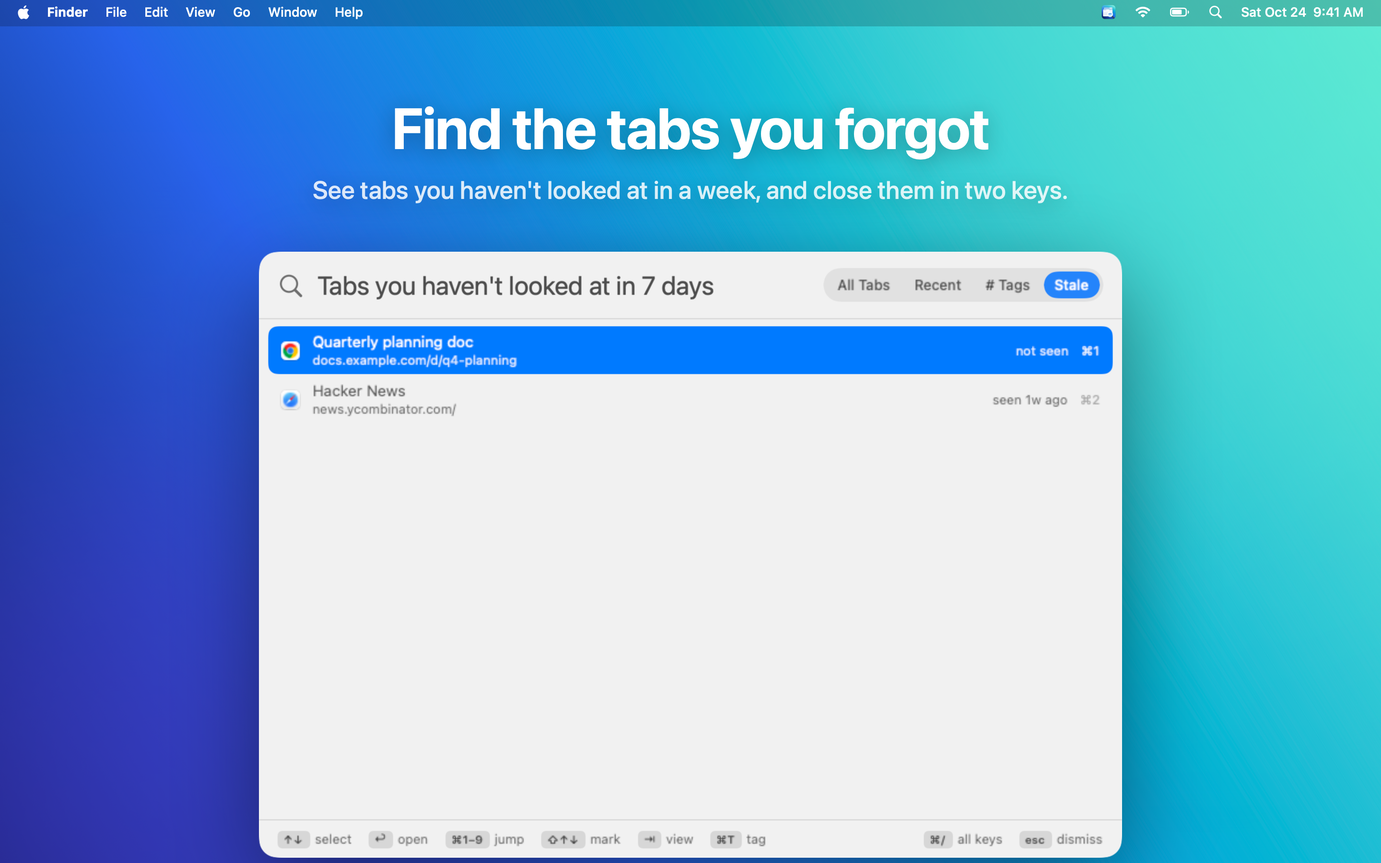
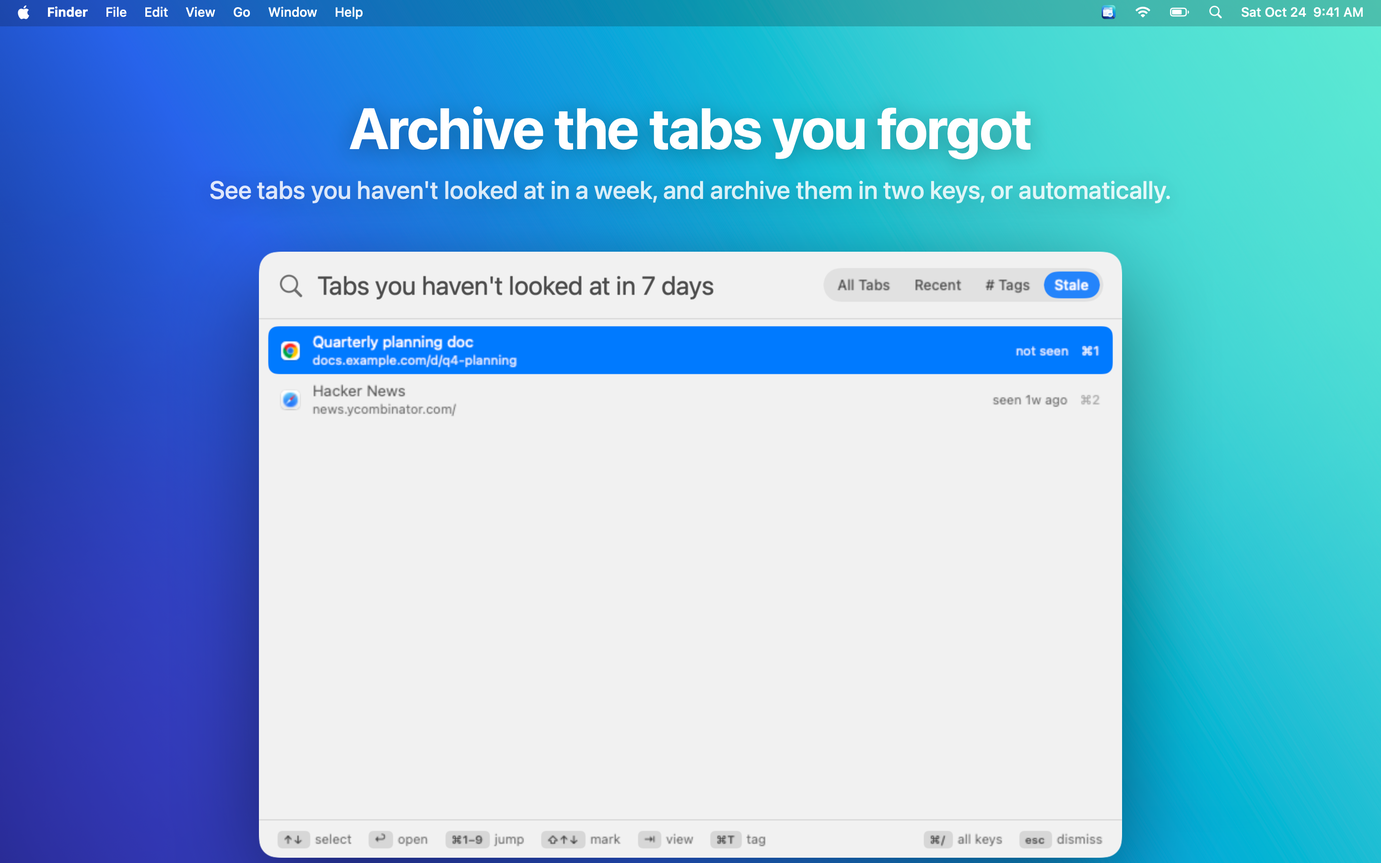
1.2: tab archive and saved sessions docs, privacy, listing, screenshots

Changed region(s): [[0.1562, 0.1244, 0.8438, 0.2489]]

diff --git a/index.html b/index.html
@@ -24,7 +24,7 @@
   <div class="wrap hero">
     <img class="icon" src="images/icon-512.png" alt="BrowserSearch app icon">
     <h1>Every tab, every browser,<br><span class="grad-text">one keystroke away</span>.</h1>
-    <p class="lead">Press <kbd>⌥Space</kbd>, type a few letters, hit <kbd>↩</kbd>. BrowserSearch jumps straight to the tab in Chrome, Safari or Firefox, whichever window it's hiding in.</p>
+    <p class="lead">Press <kbd>⌥Space</kbd>, type a few letters, hit <kbd>↩</kbd>. BrowserSearch jumps straight to the tab in Chrome, Safari or Firefox, whichever window it's hiding in. Close tabs without losing them: the archive keeps every page searchable, down to the words inside it.</p>
     <div class="actions">
       <a class="btn primary" href="docs.html#start">Get started</a>
       <a class="btn" href="#keyboard">Keyboard shortcuts</a>
@@ -32,13 +32,17 @@
     <p class="meta">macOS 14 Sonoma or later · Chrome, Safari, Firefox, Brave, Edge, Vivaldi · Nothing leaves your Mac</p>
 
     <div class="viewer">
-      <input type="radio" name="view" id="v-all" checked>
+      <input type="radio" name="view" id="v-archive" checked>
+      <input type="radio" name="view" id="v-saved">
+      <input type="radio" name="view" id="v-all">
       <input type="radio" name="view" id="v-search">
       <input type="radio" name="view" id="v-recent">
       <input type="radio" name="view" id="v-tags">
       <input type="radio" name="view" id="v-marked">
       <input type="radio" name="view" id="v-stale">
       <div class="switch" role="tablist" aria-label="Screenshots">
+        <label for="v-archive">Archive</label>
+        <label for="v-saved">Sessions</label>
         <label for="v-all">All tabs</label>
         <label for="v-search">Searching</label>
         <label for="v-recent">Recent</label>
@@ -47,6 +51,8 @@
         <label for="v-stale">Stale</label>
       </div>
       <div class="frames">
+        <img class="f-archive" src="images/panel-archive.png" alt="Searching 'renewal notice' finds an open tab and an archived page by a sentence inside it">
+        <img class="f-saved" src="images/panel-saved.png" alt="The Saved view: two saved sessions and five archived pages">
         <img class="f-all" src="images/panel-all.png" alt="The BrowserSearch panel listing tabs grouped under Chrome and Safari, and by window">
         <img class="f-search" src="images/panel-search.png" alt="Typing 'store' narrows the list to the two matching Chrome tabs">
         <img class="f-tags" src="images/panel-tags.png" alt="The Tags view: #work, #review and #reading groups, including a closed page that can be reopened">
@@ -78,17 +84,20 @@
         <p class="section-lead">Everything is reachable from the keyboard, and nothing gets in your way.</p>
       </div>
       <div class="grid">
+        <div class="card"><span class="emoji">🗄</span><h3>Tab archive <span class="tag new">new</span></h3><p><kbd>⌘E</kbd> closes a tab and keeps it, page text included. Search finds it later by title, address, tag or any words on the page; <kbd>↩</kbd> reopens it.</p></div>
+        <div class="card"><span class="emoji">🪟</span><h3>Saved sessions <span class="tag new">new</span></h3><p><kbd>⌘S</kbd> saves every window across your browsers as a named session. Pick it in <em>Saved</em> and <kbd>↩</kbd> restores the windows, tabs in order.</p></div>
+        <div class="card"><span class="emoji">🧹</span><h3>Auto-archive <span class="tag new">new</span></h3><p>Optionally archive tabs you haven't looked at in a week, automatically. Pinned, keyworded and showing tabs are never touched.</p></div>
         <div class="card"><span class="emoji">🌳</span><h3>Organized like your Mac</h3><p>Tabs grouped by browser, then by window, with the tab each window is showing marked.</p></div>
         <div class="card"><span class="emoji">🔎</span><h3>Fuzzy search</h3><p>Titles and addresses. <code>store</code>, <code>gh pull</code>, or just initials: <code>pr</code> finds “Pull requests”.</p></div>
-        <div class="card"><span class="emoji">#⃣</span><h3>Saved tab groups <span class="tag new">new</span></h3><p>Tag tabs <code>#work</code> with <kbd>⌘T</kbd>. <kbd>⌘↩</kbd> reopens the whole group later, even tabs you closed.</p></div>
-        <div class="card"><span class="emoji">☑</span><h3>Bulk actions <span class="tag new">new</span></h3><p>Mark tabs with <kbd>⇧↑↓</kbd> or <kbd>⌘</kbd>-click, then close, tag, pin or copy them all as Markdown links.</p></div>
-        <div class="card"><span class="emoji">👯</span><h3>Duplicate finder <span class="tag new">new</span></h3><p>Tabs open twice get a <strong>2×</strong> badge. <kbd>⌘D</kbd> closes the extra copies.</p></div>
-        <div class="card"><span class="emoji">💤</span><h3>Stale tabs <span class="tag new">new</span></h3><p>See what you haven't looked at in a week, oldest first. <kbd>⌘A</kbd> <kbd>⌘W</kbd> and they're gone.</p></div>
-        <div class="card"><span class="emoji">📌</span><h3>Pins &amp; keywords <span class="tag new">new</span></h3><p><kbd>⌘P</kbd> pins a tab to the top. <kbd>⌘K</kbd> gives it a keyword: type <code>jira</code> ↩ and you're there.</p></div>
-        <div class="card"><span class="emoji">↔</span><h3>Move &amp; switch browsers <span class="tag new">new</span></h3><p><kbd>⌘M</kbd> pulls a tab into your front window. <kbd>⌘O</kbd> moves it to another browser.</p></div>
-        <div class="card"><span class="emoji">⏮</span><h3>Previous-tab shortcut <span class="tag new">new</span></h3><p><kbd>⌃⌥⇥</kbd> jumps straight back to the tab you used before, no panel. Again to return.</p></div>
-        <div class="card"><span class="emoji">📄</span><h3>Search inside pages <span class="tag new">new</span></h3><p><kbd>⌘F</kbd> in the panel also matches the text on each page, with a snippet of where it was found.</p></div>
-        <div class="card"><span class="emoji">🗣</span><h3>Shortcuts &amp; Siri <span class="tag new">new</span></h3><p>“Find Tab”, “Open Tab Group” and “Go to Previous Tab” actions for the Shortcuts app.</p></div>
+        <div class="card"><span class="emoji">#⃣</span><h3>Saved tab groups</h3><p>Tag tabs <code>#work</code> with <kbd>⌘T</kbd>. <kbd>⌘↩</kbd> reopens the whole group later, even tabs you closed.</p></div>
+        <div class="card"><span class="emoji">☑</span><h3>Bulk actions</h3><p>Mark tabs with <kbd>⇧↑↓</kbd> or <kbd>⌘</kbd>-click, then close, tag, pin or copy them all as Markdown links.</p></div>
+        <div class="card"><span class="emoji">👯</span><h3>Duplicate finder</h3><p>Tabs open twice get a <strong>2×</strong> badge. <kbd>⌘D</kbd> closes the extra copies.</p></div>
+        <div class="card"><span class="emoji">💤</span><h3>Stale tabs</h3><p>See what you haven't looked at in a week, oldest first. <kbd>⌘A</kbd> <kbd>⌘E</kbd> and they're archived.</p></div>
+        <div class="card"><span class="emoji">📌</span><h3>Pins &amp; keywords</h3><p><kbd>⌘P</kbd> pins a tab to the top. <kbd>⌘K</kbd> gives it a keyword: type <code>jira</code> ↩ and you're there.</p></div>
+        <div class="card"><span class="emoji">↔</span><h3>Move &amp; switch browsers</h3><p><kbd>⌘M</kbd> pulls a tab into your front window. <kbd>⌘O</kbd> moves it to another browser.</p></div>
+        <div class="card"><span class="emoji">⏮</span><h3>Previous-tab shortcut</h3><p><kbd>⌃⌥⇥</kbd> jumps straight back to the tab you used before, no panel. Again to return.</p></div>
+        <div class="card"><span class="emoji">📄</span><h3>Search inside pages</h3><p><kbd>⌘F</kbd> in the panel also matches the text on each page, with a snippet of where it was found.</p></div>
+        <div class="card"><span class="emoji">🗣</span><h3>Shortcuts &amp; Siri</h3><p>“Find Tab”, “Open Tab Group” and “Go to Previous Tab” actions for the Shortcuts app.</p></div>
         <div class="card"><span class="emoji">🌐</span><h3>Automatic site groups</h3><p>Tabs from the same site group themselves in the Tags view: every GitHub tab under <code>github</code>, no setup.</p></div>
         <div class="card"><span class="emoji">🕘</span><h3>Recent tabs</h3><p>A live, most-recently-used list across all browsers. Press <kbd>⇥</kbd> to switch to it.</p></div>
         <div class="card"><span class="emoji">↩</span><h3>Jump back</h3><p>Open on Recent and the previous tab is preselected: shortcut, <kbd>↩</kbd>, and you're back. Like <kbd>⌘⇥</kbd> for tabs.</p></div>
@@ -97,7 +106,7 @@
         <div class="card"><span class="emoji">🛡</span><h3>Shortcut conflict check</h3><p>Warns when your shortcut clashes with macOS, another app's hotkey, or a launcher like Raycast, Alfred or ChatGPT.</p></div>
         <div class="card"><span class="emoji">♻</span><h3>Reopen closed tabs</h3><p>Tabs you closed stay in Recent; pick one to open it again in the same browser.</p></div>
         <div class="card"><span class="emoji">🚫</span><h3>Never launches browsers</h3><p>Only open browsers are searched. If only Chrome is running, only Chrome is searched.</p></div>
-        <div class="card"><span class="emoji">🔒</span><h3>Private by design</h3><p>No network access, no analytics. Recent tabs, tags, pins and keywords stay on your Mac and can be cleared.</p></div>
+        <div class="card"><span class="emoji">🔒</span><h3>Private by design</h3><p>No network access, no analytics. Recent tabs, tags, pins, the archive and sessions stay on your Mac and can be cleared.</p></div>
       </div>
     </div>
   </section>
@@ -146,7 +155,7 @@
         <div class="key"><kbd>↩</kbd><span>Switch to the tab</span></div>
         <div class="key"><kbd>⌘1–9</kbd><span>Open result 1–9</span></div>
         <div class="key"><kbd>⌘↑ ⌘↓</kbd><span>Previous / next group</span></div>
-        <div class="key"><kbd>⇥</kbd><span>All · Recent · Tags · Stale</span></div>
+        <div class="key"><kbd>⇥</kbd><span>All · Recent · Tags · Stale · Saved</span></div>
         <div class="key"><kbd>⇧↑ ⇧↓</kbd><span>Mark tabs</span></div>
         <div class="key"><kbd>⌘A</kbd><span>Mark all / none</span></div>
         <div class="key"><kbd>⌘↩</kbd><span>Open marked tabs or a whole #tag group</span></div>
@@ -154,6 +163,8 @@
         <div class="key"><kbd>⌘K</kbd><span>Keyword</span></div>
         <div class="key"><kbd>⌘P</kbd><span>Pin to the top</span></div>
         <div class="key"><kbd>⌘W</kbd><span>Close tab(s)</span></div>
+        <div class="key"><kbd>⌘E</kbd><span>Archive tab(s)</span></div>
+        <div class="key"><kbd>⌘S</kbd><span>Save a session</span></div>
         <div class="key"><kbd>⌘D</kbd><span>Close duplicates</span></div>
         <div class="key"><kbd>⌘M</kbd><span>Move to the front window</span></div>
         <div class="key"><kbd>⌘O</kbd><span>Open in another browser</span></div>

diff --git a/docs.html b/docs.html
@@ -29,6 +29,8 @@
     <a href="#tags">Hashtags &amp; saved groups</a>
     <a href="#bulk">Bulk actions</a>
     <a href="#pins">Pins &amp; keywords</a>
+    <a href="#archive">Tab archive</a>
+    <a href="#sessions">Saved sessions</a>
     <a href="#tidy">Duplicates &amp; stale tabs</a>
     <a href="#move">Moving tabs</a>
     <a href="#pagetext">Searching page text</a>
@@ -115,11 +117,30 @@
       <li><strong>Keyword</strong> with <kbd>⌘K</kbd>: give a tab a short word such as <code>jira</code>. Typing exactly that word shows it first under <em>Keyword</em>, so shortcut, <code>jira</code>, <kbd>↩</kbd> always lands there, and reopens it if the tab was closed. A keyword belongs to one page; giving it to another page moves it. Clear the box to remove it.</li>
     </ul>
 
+    <h2 id="archive">Tab archive</h2>
+    <img src="images/panel-archive.png" alt="Searching finds an archived page by a sentence inside it">
+    <ul>
+      <li><kbd>⌘E</kbd> archives the selected or marked tabs: BrowserSearch keeps the title, address, hashtags and the visible text of the page, then closes the tab. Firefox tabs are archived but stay open, since Firefox can't be asked to close them.</li>
+      <li>Archived pages show up under <em>Archive</em> whenever you search in All Tabs, matched by title, address, <code>#tag</code> or any words in the page text, with a snippet of where the words were found. <kbd>↩</kbd> reopens the page in the browser it came from and takes it out of the archive.</li>
+      <li>The <em>Saved</em> view (<kbd>⇥</kbd>) lists everything archived, newest first. <kbd>⌘W</kbd> deletes entries.</li>
+      <li>Page text needs <strong>Allow JavaScript from Apple Events</strong> in Chrome, Brave, Edge or Vivaldi (View › Developer) or Safari (Develop menu); without it the page is archived without its text. Turn off <strong>Keep page text</strong> in Settings › Archive to never store it.</li>
+      <li><strong>Archive stale tabs automatically</strong> (Settings › Archive, off by default): every half hour, tabs that would be listed in the Stale view are archived and closed. Tabs that are showing in their window, pinned, or given a keyword are never touched.</li>
+      <li>The archive keeps the latest 2,000 pages and up to 20,000 characters of text from each.</li>
+    </ul>
+
+    <h2 id="sessions">Saved sessions</h2>
+    <img src="images/panel-saved.png" alt="The Saved view: sessions and archived pages">
+    <ul>
+      <li><kbd>⌘S</kbd> saves the marked tabs, or every tab when none are marked, as a named session. Each browser window is kept separately, tabs in order.</li>
+      <li>In the <em>Saved</em> view, pick a session and press <kbd>↩</kbd>: each window is opened again in its browser, with all its tabs. The session stays saved, so you can restore it again later; <kbd>⌘W</kbd> deletes it.</li>
+      <li>Firefox tabs can't be read with their addresses, so sessions don't include them.</li>
+    </ul>
+
     <h2 id="tidy">Duplicates &amp; stale tabs</h2>
     <img src="images/panel-stale.png" alt="The Stale view listing tabs not looked at for a week">
     <ul>
       <li><strong>Duplicates:</strong> a page open more than once (in any browser, ignoring <code>https</code>, <code>www.</code> and <code>#section</code> differences) gets a <strong>2×</strong> badge. <kbd>⌘D</kbd> closes the extra copies among the tabs listed, keeping the one showing in its window. Search first to limit it, for example to one site.</li>
-      <li><strong>Stale view</strong> (<kbd>⇥</kbd> to <em>Stale</em>): open tabs you haven't looked at for 7 days, oldest first, with when you last saw each. Mark them all with <kbd>⌘A</kbd> and close with <kbd>⌘W</kbd>. Change the number of days in Settings › Organize.</li>
+      <li><strong>Stale view</strong> (<kbd>⇥</kbd> to <em>Stale</em>): open tabs you haven't looked at for 7 days, oldest first, with when you last saw each. Mark them all with <kbd>⌘A</kbd>, then archive with <kbd>⌘E</kbd> or close with <kbd>⌘W</kbd>. Change the number of days in Settings › Organize.</li>
       <li>“Looked at” means the tab was in front in its browser while BrowserSearch was running. Tabs never seen only count as stale once BrowserSearch has been running for that many days, so nothing shows up right after installing.</li>
     </ul>
 
@@ -155,14 +176,16 @@
       <tr><td><kbd>⌘↑</kbd> / <kbd>⌘↓</kbd></td><td>Jump to the previous / next group (browser, section or tag)</td></tr>
       <tr><td><kbd>↩</kbd></td><td>Switch to the selected tab</td></tr>
       <tr><td><kbd>⌘1</kbd>–<kbd>⌘9</kbd></td><td>Switch to result 1–9</td></tr>
-      <tr><td><kbd>⇥</kbd></td><td>Cycle All Tabs, Recent, # Tags and Stale</td></tr>
+      <tr><td><kbd>⇥</kbd></td><td>Cycle All Tabs, Recent, # Tags, Stale and Saved</td></tr>
       <tr><td><kbd>⇧↑</kbd> / <kbd>⇧↓</kbd>, <kbd>⌘</kbd>-click</td><td>Mark tabs for a bulk action</td></tr>
       <tr><td><kbd>⌘A</kbd></td><td>Mark every tab listed / clear marks</td></tr>
       <tr><td><kbd>⌘↩</kbd></td><td>Open the marked tabs, or in # Tags the whole group (reopening closed pages)</td></tr>
       <tr><td><kbd>⌘T</kbd></td><td>Hashtags for the selected or marked tabs</td></tr>
       <tr><td><kbd>⌘K</kbd></td><td>Keyword for the selected tab</td></tr>
       <tr><td><kbd>⌘P</kbd></td><td>Pin / unpin</td></tr>
-      <tr><td><kbd>⌘W</kbd></td><td>Close the selected or marked tabs (not Firefox)</td></tr>
+      <tr><td><kbd>⌘W</kbd></td><td>Close the selected or marked tabs (not Firefox); in Saved, delete them</td></tr>
+      <tr><td><kbd>⌘E</kbd></td><td>Archive the selected or marked tabs (and close them)</td></tr>
+      <tr><td><kbd>⌘S</kbd></td><td>Save the marked tabs, or all tabs, as a session</td></tr>
       <tr><td><kbd>⌘D</kbd></td><td>Close duplicate tabs among those listed</td></tr>
       <tr><td><kbd>⌘M</kbd></td><td>Move to the browser's front window</td></tr>
       <tr><td><kbd>⌘O</kbd></td><td>Open in another browser (then a number to pick it)</td></tr>
@@ -212,6 +235,12 @@
       <li><strong>Hashtags › Clear All Tags.</strong> Removes every tag you've added.</li>
       <li><strong>Keywords &amp; Pins › Clear Keywords &amp; Pins.</strong></li>
       <li><strong>Stale after N days.</strong> How long a tab can go without a look before the Stale view lists it (1–60, default 7).</li>
+    </ul>
+    <h3>Archive</h3>
+    <ul>
+      <li><strong>Keep page text.</strong> On by default. Off stores only titles, addresses and tags.</li>
+      <li><strong>Archive stale tabs automatically.</strong> Off by default. See <a href="#archive">Tab archive</a>.</li>
+      <li><strong>Clear Archive</strong> and <strong>Clear Sessions</strong> delete them.</li>
     </ul>
     <h3>Browsers</h3>
     <ul>

diff --git a/privacy.html b/privacy.html
@@ -23,7 +23,7 @@
 <main class="wrap">
   <section>
     <h2>Privacy Policy</h2>
-    <p class="section-lead">Effective October 24, 2026. Short version: BrowserSearch doesn't collect, sell or share any data about you.</p>
+    <p class="section-lead">Effective October 28, 2026. Short version: BrowserSearch doesn't collect, sell or share any data about you.</p>
 
     <h3>What BrowserSearch reads</h3>
     <p>When you open the search panel, BrowserSearch reads the titles and URLs of tabs in browsers that are already open, so it can search them. That list is kept in memory only and replaced on the next search.</p>
@@ -35,10 +35,13 @@
       <li>With Recent tabs on (the default): the title, URL, browser and time of the <strong>last 50 tabs</strong> you used. They are saved in BrowserSearch's preferences on your Mac so the list survives restarts.</li>
       <li>Hashtags, keywords and pins you add, with the title and address (or, for Firefox, the title) of each of those pages so they can be reopened. Remove them in Settings › Organize.</li>
       <li>When each page was last the tab in front, for the Stale view. Entries older than 90 days are dropped automatically, and nothing is recorded while Recent tabs is turned off.</li>
+      <li><strong>Tab archive</strong>: when you archive a tab (<kbd>⌘E</kbd>, or automatically if you turn that on), its title, address, hashtags and, if your browser allows it and <strong>Keep page text</strong> is on, up to 20,000 characters of the page's visible text. Stored in a file in BrowserSearch's Application Support folder on your Mac.</li>
+      <li><strong>Saved sessions</strong>: the titles and addresses of the tabs you save with <kbd>⌘S</kbd>, in the same folder.</li>
     </ul>
+    <p>Delete the archive or sessions anytime with <strong>Clear Archive</strong> and <strong>Clear Sessions</strong> in Settings › Archive, or individual entries with <kbd>⌘W</kbd> in the Saved view.</p>
     <h3>Page text</h3>
     <ul>
-      <li>Only when you press <kbd>⌘F</kbd> in the panel (and you've allowed it in your browser), BrowserSearch reads the visible text of your open pages to search it. The text is kept in memory while the panel is open and never written to disk or sent anywhere.</li>
+      <li>Only when you press <kbd>⌘F</kbd> in the panel (and you've allowed it in your browser), BrowserSearch reads the visible text of your open pages to search it. The text is kept in memory while the panel is open. Page text is written to disk only for tabs you archive, as described above, and is never sent anywhere.</li>
     </ul>
     <p>To remove them, click <strong>Clear Recent Tabs</strong> in Settings. To stop collecting them, turn off <strong>Remember recently used tabs</strong>. Turning a browser off in Settings › Browsers also stops tracking it.</p>
 

diff --git a/assets/style.css b/assets/style.css
@@ -121,18 +121,24 @@ kbd { border-bottom-width: 2px; white-space: nowrap; }
 #v-tags:checked ~ .switch label[for="v-tags"],
 #v-marked:checked ~ .switch label[for="v-marked"],
 #v-stale:checked ~ .switch label[for="v-stale"] { background: var(--grad); color: #fff; }
+#v-archive:checked ~ .switch label[for="v-archive"] { background: var(--grad); color: #fff; }
+#v-saved:checked ~ .switch label[for="v-saved"] { background: var(--grad); color: #fff; }
 #v-all:checked ~ .frames .f-all,
 #v-search:checked ~ .frames .f-search,
 #v-recent:checked ~ .frames .f-recent,
 #v-tags:checked ~ .frames .f-tags,
 #v-marked:checked ~ .frames .f-marked,
 #v-stale:checked ~ .frames .f-stale { display: block; }
+#v-archive:checked ~ .frames .f-archive { display: block; }
+#v-saved:checked ~ .frames .f-saved { display: block; }
 #v-all:focus-visible ~ .switch label[for="v-all"],
 #v-search:focus-visible ~ .switch label[for="v-search"],
 #v-recent:focus-visible ~ .switch label[for="v-recent"],
 #v-tags:focus-visible ~ .switch label[for="v-tags"],
 #v-marked:focus-visible ~ .switch label[for="v-marked"],
 #v-stale:focus-visible ~ .switch label[for="v-stale"] { outline: 2px solid var(--blue); outline-offset: 2px; }
+#v-archive:focus-visible ~ .switch label[for="v-archive"] { outline: 2px solid var(--blue); outline-offset: 2px; }
+#v-saved:focus-visible ~ .switch label[for="v-saved"] { outline: 2px solid var(--blue); outline-offset: 2px; }
 
 /* Sections */
 section { padding: 56px 0; }

diff --git a/appstore/listing.md b/appstore/listing.md
@@ -2,40 +2,43 @@
 
 Bundle ID `com.giridharmb.BrowserSearch` · Platform macOS · Category Productivity · Price Free · SKU `browsersearch-mac`
 
-## Name
-BrowserSearch
+## Name (30)
+BrowserSearch: Tab Archive
 
 ## Subtitle (30)
-Find any browser tab instantly
+Close tabs without losing them
 
 ## Promotional text (170)
-New: saved tab groups, bulk close and tag, duplicate finder, stale tabs, pins, keywords, and a previous-tab shortcut. Every tab, every browser, one keystroke away.
+New in 1.2: a searchable tab archive. Close tabs with ⌘E and find them later by any words on the page. Save whole browser sessions and restore them in one key.
 
 ## Description
-Too many tabs, too many windows? BrowserSearch finds the one you want in a keystroke.
+Too many tabs open because you're afraid to lose them? BrowserSearch lets you close them without losing anything.
 
-Press your shortcut from any app, type a few letters of a page's title or address, and press Return. BrowserSearch brings the right browser window forward with that tab selected.
+TAB ARCHIVE
+Press ⌘E on any tab (or a whole set of tabs) to archive it. BrowserSearch keeps the page's title, address, your hashtags and the text on the page, then closes the tab. Weeks later, type a few words you remember, even something from the middle of the article, and the page comes back with a snippet of where it matched. Press Return to reopen it.
+• Full-text search across everything you've archived, right next to your open tabs.
+• Auto-archive (optional): tabs you haven't looked at in a week are archived for you. Pinned tabs, keyworded tabs and the tab you're looking at are never touched.
+• Up to 2,000 pages, stored only on your Mac.
 
-• Every browser at once: Google Chrome, Safari, Brave, Microsoft Edge and Vivaldi, grouped by browser and window.
-• Fuzzy search: matches titles and addresses, initials ("pr" finds Pull requests), and highlights what matched.
-• Recent tabs: a live most-recently-used list across browsers. Jump back to the previous tab in two keys, or reopen one you closed.
-• Saved tab groups: press ⌘T to tag tabs #work, type #work to see just those, and ⌘Return reopens the whole group, even tabs you closed. Tabs from the same site are grouped automatically.
-• Bulk actions: mark tabs with Shift-arrows or ⌘-click, then close, tag, pin or copy them all as Markdown links.
-• Duplicate finder and Stale view: spot tabs open twice or untouched for a week, and close them in two keys.
-• Pins and keywords: pin your key tabs to the top; give a tab a keyword like "jira" and jump there by typing it.
-• Move tabs into your front window, or into another browser.
-• Search the text inside pages, not just titles (needs a browser setting).
-• Previous-tab shortcut: ⌃⌥⇥ jumps straight back to the tab you were on, from anywhere.
+SAVED SESSIONS
+Press ⌘S to save every open window, across Chrome, Safari, Brave, Edge and Vivaldi, as a named session ("Release week", "Trip planning"). Close everything, and when you need it again, pick the session and press Return: each window reopens in its browser with its tabs in order.
+
+FIND ANY OPEN TAB
+Press your shortcut from any app, type a few letters, press Return. BrowserSearch brings the right window forward with that tab selected.
+• Every browser at once, grouped by browser and window, with fuzzy matching on titles and addresses.
+• Stale view: tabs you haven't looked at in a week, ready to archive in two keys.
+• Saved tab groups with #hashtags, pins, keywords, duplicate finder, bulk actions on marked tabs.
+• Recent tabs and a previous-tab shortcut (⌃⌥⇥).
 • Shortcuts and Siri actions: Find Tab, Open Tab Group, Go to Previous Tab.
-• Keyboard first: ↑↓ and Return, ⌘1–9 to jump, ⌘W to close a tab, ⌘C to copy its address, Esc to dismiss.
-• Smart shortcut setup: warns if your shortcut clashes with macOS, another app or a launcher.
-• Lives in the menu bar, optional launch at login.
-• Private: no network access, no analytics. Recent tabs and tags stay on your Mac and can be cleared anytime.
+• Keyboard first: every action has a key; ⌘/ shows them all.
+
+PRIVATE
+No network access, no analytics, no account. The archive and sessions are files on your Mac that you can clear anytime in Settings.
 
 BrowserSearch only reads browsers that are already open; it never launches one.
 
 ## Keywords (100)
-tabs,browser,tab switcher,search,chrome,safari,hotkey,launcher,productivity,menu bar,brave,edge
+tab archive,tabs,session,save tabs,read later,full text,search,browser,chrome,safari,brave,edge
 
 ## Support URL
 https://giridharmb.github.io/BrowserSearch_Docs/support.html
@@ -50,14 +53,20 @@ https://giridharmb.github.io/BrowserSearch_Docs/privacy.html
 Data Not Collected.
 
 ## Review notes
-BrowserSearch is a tab switcher. It uses Apple Events to read the titles and URLs of open tabs in web browsers and to select the tab the user picks; that is the app's only function. Because these browsers don't publish scripting access groups, the app uses `com.apple.security.temporary-exception.apple-events` for exactly these bundle IDs: com.google.Chrome, com.apple.Safari, com.brave.Browser, com.microsoft.edgemac, com.vivaldi.Vivaldi. macOS asks the user for Automation permission per browser before any access; nothing is sent off the device.
+Version 1.2 changes the app substantially in response to the Guideline 4.3 review. BrowserSearch is now a tab archive and session manager, not only a tab switcher:
+- Tab archive: ⌘E closes tabs and keeps their title, address, tags and page text in a local archive (Application Support/BrowserSearch/archive.json). Archived pages are full-text searchable from the main panel and can be reopened. An optional setting archives tabs automatically once they go unviewed for a week.
+- Saved sessions: ⌘S saves all windows across browsers as a named session; the Saved view restores each window with its tabs.
+- A new Saved view and an Archive settings pane manage both.
 
-Page text search (⌘F in the panel) runs `document.body.innerText` in the user's tabs through the same Apple Events, only when the user presses ⌘F and only if they have enabled "Allow JavaScript from Apple Events" in their browser; the text stays in memory.
+Apple Events: BrowserSearch reads the titles and URLs of open tabs, selects, closes and opens tabs and windows in these browsers, using `com.apple.security.temporary-exception.apple-events` for exactly: com.google.Chrome, com.apple.Safari, com.brave.Browser, com.microsoft.edgemac, com.vivaldi.Vivaldi. macOS asks for Automation permission per browser first. Page text for the archive and ⌘F search is read with `document.body.innerText` only if the user has enabled "Allow JavaScript from Apple Events" in their browser. Nothing is sent off the device; the app has no network access.
 
-To test: open Safari with a few tabs, launch BrowserSearch (menu bar icon), allow the Automation prompt, press ⌥Space (or choose Search Tabs from the menu bar icon), type part of a tab's title and press Return.
+To test: open Safari with a few tabs, launch BrowserSearch (menu bar icon), allow the Automation prompt, press ⌥Space. Select a tab and press ⌘E: it closes and is archived. Type a word from its title: it appears under Archive; press Return to reopen it. Press ⌘S, then Return to save a session; close the window; press Tab until "Saved" and press Return on the session to restore it.
 
-## What's New in 1.1
-Saved tab groups (⌘Return reopens a #tag group), bulk actions on marked tabs, duplicate finder (⌘D), Stale view, pins (⌘P), keywords (⌘K), move to front window (⌘M) and to another browser (⌘O), page text search (⌘F), a previous-tab shortcut (⌃⌥⇥), Shortcuts/Siri actions, and ⌘/ to see every key.
+## What's New in 1.2
+• Tab archive: ⌘E closes tabs without losing them. Archived pages keep their text and are searchable by any words on the page; Return reopens them.
+• Saved sessions: ⌘S saves all your windows across browsers; restore them later in one key.
+• Auto-archive (optional) for tabs you haven't looked at in a week.
+• New Saved view and Archive settings.
 
 ## Screenshots
-appstore/screenshots/01–07 (2880×1800), generated by scripts/storeshots.swift in the app repo.
+appstore/screenshots/01-archive … 07-marked (2880×1800), generated by scripts/storeshots.swift in the app repo.

diff --git a/README.md b/README.md
@@ -9,6 +9,8 @@ and press **↩**. BrowserSearch switches to that browser, raises the right wind
 
 ## Features
 
+- Tab archive: ⌘E closes tabs but keeps them, with page text, searchable from All Tabs; ↩ reopens. Optional auto-archive of stale tabs
+- Saved sessions: ⌘S saves windows across browsers, ↩ in the Saved view restores them
 - Global hotkey that works from any app, configurable in Settings
 - Tabs grouped by browser and window; fuzzy search as you type (`gh pull`, initials like `pr`)
 - Recent tabs: a live most-recently-used list across browsers, with jump-back and reopen
@@ -21,7 +23,7 @@ and press **↩**. BrowserSearch switches to that browser, raises the right wind
 - ⌘1–9 to jump, ⌘W to close a tab, ⌘C to copy its address, Esc to dismiss
 - Searches Chrome, Safari, Brave, Edge, Vivaldi and Firefox at once; only browsers that are already open are searched
 - Lives in the menu bar, optional launch at login
-- Nothing leaves your Mac: no network access; recent tabs are stored locally and can be cleared
+- Nothing leaves your Mac: no network access; recent tabs, the archive and sessions are stored locally and can be cleared
 
 ## Requirements
 
